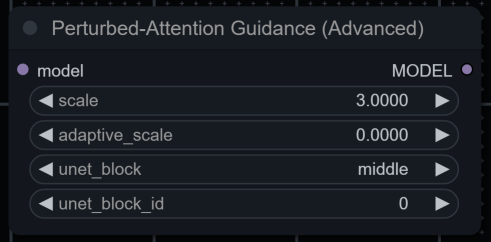
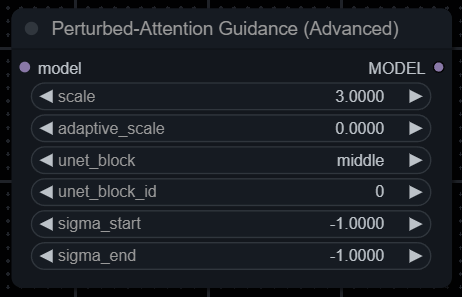
Allow negative sigmas

diff --git a/scripts/pag.py b/scripts/pag.py
@@ -29,11 +29,26 @@ try:
                     with gr.Row():
                         block = gr.Dropdown(choices=["input", "middle", "output"], value="middle", label="U-Net Block")
                         block_id = gr.Number(label="U-Net Block Id", value=0, precision=0, minimum=0)
+                    with gr.Row():
+                        sigma_start = gr.Number(minimum=-1.0, label="Sigma Start", value=-1.0)
+                        sigma_end = gr.Number(minimum=-1.0, label="Sigma End", value=-1.0)
 
-                return enabled, scale, adaptive_scale, block, block_id, hr_override, hr_cfg, hr_scale, hr_adaptive_scale
+                return enabled, scale, adaptive_scale, block, block_id, hr_override, hr_cfg, hr_scale, hr_adaptive_scale, sigma_start, sigma_end
 
             def process_before_every_sampling(self, p, *script_args, **kwargs):
-                enabled, scale, adaptive_scale, block, block_id, hr_override, hr_cfg, hr_scale, hr_adaptive_scale = script_args
+                (
+                    enabled,
+                    scale,
+                    adaptive_scale,
+                    block,
+                    block_id,
+                    hr_override,
+                    hr_cfg,
+                    hr_scale,
+                    hr_adaptive_scale,
+                    sigma_start,
+                    sigma_end,
+                ) = script_args
 
                 if not enabled:
                     return
@@ -45,9 +60,9 @@ try:
                 if hr_enabled and p.is_hr_pass and hr_override:
                     p.cfg_scale_before_hr = p.cfg_scale
                     p.cfg_scale = hr_cfg
-                    unet = opPerturbedAttention.patch(unet, hr_scale, hr_adaptive_scale, block, block_id)[0]
+                    unet = opPerturbedAttention.patch(unet, hr_scale, hr_adaptive_scale, block, block_id, sigma_start, sigma_end)[0]
                 else:
-                    unet = opPerturbedAttention.patch(unet, scale, adaptive_scale, block, block_id)[0]
+                    unet = opPerturbedAttention.patch(unet, scale, adaptive_scale, block, block_id, sigma_start, sigma_end)[0]
 
                 p.sd_model.forge_objects.unet = unet
 
@@ -70,11 +85,30 @@ try:
                                 pag_hr_adaptive_scale=hr_adaptive_scale,
                             )
                         )
+                if sigma_start >= 0 or sigma_end >= 0:
+                    p.extra_generation_params.update(
+                        dict(
+                            pag_sigma_start=sigma_start,
+                            pag_sigma_end=sigma_end,
+                        )
+                    )
 
                 return
 
             def post_sample(self, p, ps, *script_args):
-                enabled, scale, adaptive_scale, block, block_id, hr_override, hr_cfg, hr_scale, hr_adaptive_scale = script_args
+                (
+                    enabled,
+                    scale,
+                    adaptive_scale,
+                    block,
+                    block_id,
+                    hr_override,
+                    hr_cfg,
+                    hr_scale,
+                    hr_adaptive_scale,
+                    sigma_start,
+                    sigma_end,
+                ) = script_args
 
                 if not enabled:
                     return

diff --git a/pag_nodes.py b/pag_nodes.py
@@ -5,6 +5,7 @@ BACKEND = None
 try:
     from comfy.model_patcher import ModelPatcher
     from comfy.samplers import calc_cond_batch
+
     try:
         from comfy.model_patcher import set_model_options_patch_replace
     except ImportError:
@@ -29,8 +30,8 @@ class PerturbedAttention:
                 "adaptive_scale": ("FLOAT", {"default": 0.0, "min": 0.0, "max": 1.0, "step": 0.001, "round": 0.0001}),
                 "unet_block": (["input", "middle", "output"], {"default": "middle"}),
                 "unet_block_id": ("INT", {"default": 0}),
-                "sigma_start": ("FLOAT", {"default": 15.0, "min": 0.0, "max": 1000.0, "step": 0.1, "round": 0.1}),
-                "sigma_end": ("FLOAT", {"default": 0.0, "min": 0.0, "max": 1000.0, "step": 0.1, "round": 0.1}),
+                "sigma_start": ("FLOAT", {"default": -1.0, "min": -1.0, "max": 10000.0, "step": 0.01, "round": False}),
+                "sigma_end": ("FLOAT", {"default": -1.0, "min": -1.0, "max": 10000.0, "step": 0.01, "round": False}),
             }
         }
 
@@ -39,8 +40,19 @@ class PerturbedAttention:
 
     CATEGORY = "advanced/model"
 
-    def patch(self, model: ModelPatcher, scale: float = 3.0, adaptive_scale: float = 0.0, unet_block: str = "middle", unet_block_id: int = 0, sigma_start: float = 15.0, sigma_end: float = 0.0):
+    def patch(
+        self,
+        model: ModelPatcher,
+        scale: float = 3.0,
+        adaptive_scale: float = 0.0,
+        unet_block: str = "middle",
+        unet_block_id: int = 0,
+        sigma_start: float = -1.0,
+        sigma_end: float = -1.0,
+    ):
         m = model.clone()
+
+        sigma_start = float('inf') if sigma_start < 0 else sigma_start
 
         def perturbed_attention(q: Tensor, k: Tensor, v: Tensor, extra_options, mask=None):
             """Perturbed self-attention"""
@@ -63,7 +75,7 @@ class PerturbedAttention:
                 if signal_scale < 0:
                     signal_scale = 0
 
-            if signal_scale == 0 or sigma[0] > sigma_start or sigma[0] < sigma_end:
+            if signal_scale == 0 or not (sigma_end < sigma[0] <= sigma_start):
                 return cfg_result
 
             # Replace Self-attention with PAG

diff --git a/README.md b/README.md
@@ -1,26 +1,27 @@
-# Perturbed-Attention Guidance for ComfyUI/Forge
+# Perturbed-Attention Guidance for ComfyUI / SD WebUI (Forge)
 
-Implementation of [Self-Rectifying Diffusion Sampling
-with Perturbed-Attention Guidance (D. Ahn et al.)](https://ku-cvlab.github.io/Perturbed-Attention-Guidance/) as an extension for [ComfyUI](https://github.com/comfyanonymous/ComfyUI) and [SD WebUI Forge](https://github.com/lllyasviel/stable-diffusion-webui-forge).
+Implementation of [Self-Rectifying Diffusion Sampling with Perturbed-Attention Guidance (D. Ahn et al.)](https://ku-cvlab.github.io/Perturbed-Attention-Guidance/) as an extension for [ComfyUI](https://github.com/comfyanonymous/ComfyUI) and [SD WebUI (Forge)](https://github.com/lllyasviel/stable-diffusion-webui-forge).
 
 Works with SD1.5, SDXL and Stable Cascade.
 
 > [!NOTE]
 > Paper and demo suggest using CFG scale 4.0 with PAG scale 3.0 applied to U-Net's middle layer 0, but feel free to experiment.
 >
-> Sampling speed without `adaptive_scale` is similar to Self-Attention Guidance (x0.6 of usual it/s).
+> Sampling speed without `adaptive_scale` or `sigma_start` / `sigma_end` is similar to Self-Attention Guidance (x0.6 of usual it/s).
 
 ## Installation
 
-### ComfyUI (Basic node)
+### ComfyUI
 
 Basic PAG node is now included into ComfyUI - you don't have to install this extension unless you want to mess with additional parameters.
 
 ![comfyui-node-basic](examples/comfyui-node-basic.png)
 
-### ComfyUI (Advanced node)
+To install the advanced PAG node from this repo, you can either:
 
-`git clone https://github.com/pamparamm/sd-perturbed-attention.git` into `ComfyUI/custom-nodes/` folder.
+- `git clone https://github.com/pamparamm/sd-perturbed-attention.git` into `ComfyUI/custom-nodes/` folder.
+
+- Install it via [ComfyUI Manager](https://github.com/ltdrdata/ComfyUI-Manager) (search for custom node named "Perturbed-Attention Guidance").
 
 ![comfyui-node-advanced](examples/comfyui-node-advanced.png)
 
@@ -31,12 +32,12 @@ Basic PAG node is now included into ComfyUI - you don't have to install this ext
 ![forge-script](examples/forge-script.png)
 
 > [!NOTE]
-> You can override `CFG Scale` and `PAG Scale` for Hires. fix by opening/enabling `Override for Hires. fix` section.
-> To disable PAG during Hires. fix, set `PAG Scale` to 0.
+> You can override `CFG Scale` and `PAG Scale` for Hires. fix by opening/enabling `Override for Hires. fix` tab.
+> To disable PAG during Hires. fix, set `PAG Scale` under Override to 0.
 
 ### SD WebUI (Auto1111)
 
-Under development, for now use PAG implementation from [sd-webui-incantations](https://github.com/v0xie/sd-webui-incantations) extension.
+As an alternative for A1111 WebUI you can use PAG implementation from [sd-webui-incantations](https://github.com/v0xie/sd-webui-incantations) extension.
 
 ## Parameters
 
@@ -44,3 +45,4 @@ Under development, for now use PAG implementation from [sd-webui-incantations](h
 - `adaptive_scale`: PAG dampening factor, it penalizes PAG during late denoising stages, resulting in overall speedup: 0.0 means no penalty and 1.0 completely removes PAG.
 - `unet_block`: Part of U-Net to which PAG is applied, original paper suggests to use `middle`.
 - `unet_block_id`: Id of U-Net layer in a selected block to which PAG is applied. PAG can be applied only to layers containing Self-attention blocks.
+- `sigma_start` / `sigma_end`: PAG will not be active before `sigma_start` or after `sigma_end`. Use negative values to disable this feature.
